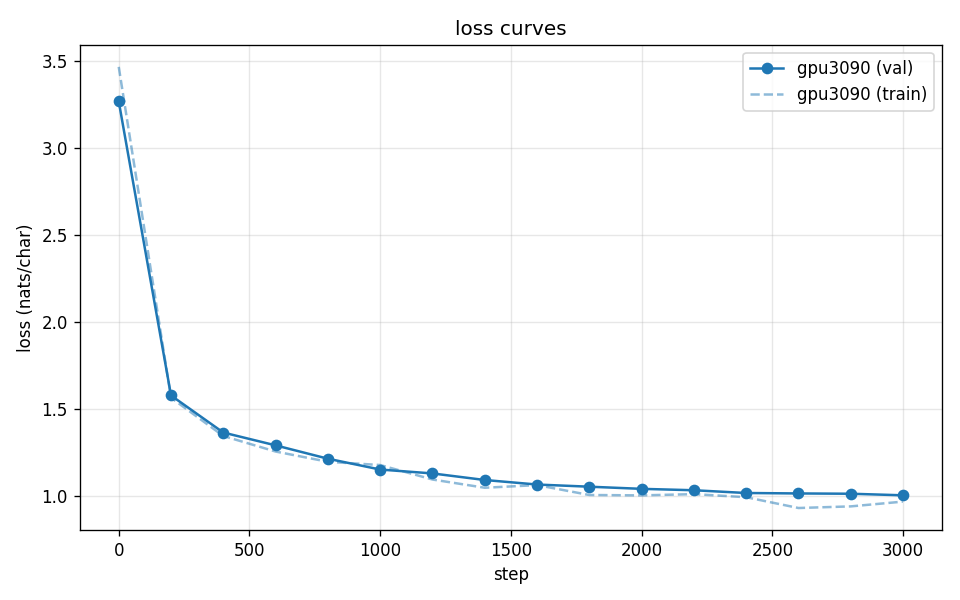
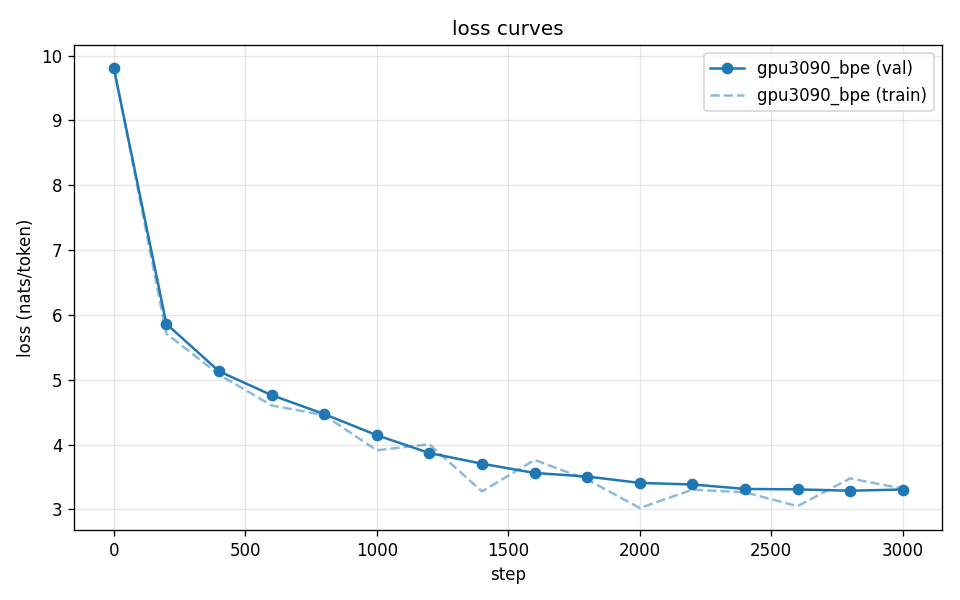
Step 2 finalize: BPE baseline results + tokenizer-aware metrics
BPE multi-domain baseline (gpu3090_bpe, 97.2M, vocab 16k) retrained:
val 3.3070 nats/token = 1.268 bits/char. Establishes the BPE-regime reference
that Steps 3-6 compare against.

Fix char-centric metric mislabel (loss is nats/TOKEN under BPE, not nats/char):
- data.py   expose chars_per_token (CharDataset=1.0; BPEDataset=sampling-weighted
            mean over domains) so bits/char is recoverable
- train.py  report nats/token + bits/token + cross-tokenizer-comparable bits/char
- plot.py   y-axis label follows the log's data_format (nats/token vs nats/char)
- out/gpu3090_bpe/log*.json  derived metrics corrected (raw losses unchanged)

diff --git a/plot.py b/plot.py
@@ -18,8 +18,18 @@ def _load(path: str):
     with open(path) as f:
         blob = json.load(f)
     hist = blob["metrics"]["history"] if "metrics" in blob else blob["history"]
+    fmt = (blob.get("config") or {}).get("data_format", "char")
     steps = [h["step"] for h in hist]
-    return steps, [h["train_loss"] for h in hist], [h["val_loss"] for h in hist]
+    return steps, [h["train_loss"] for h in hist], [h["val_loss"] for h in hist], fmt
+
+
+def _ylabel(fmts: set[str]) -> str:
+    # loss is nats/token (BPE) or nats/char (char-level); label by what's plotted
+    if fmts == {"char"}:
+        return "loss (nats/char)"
+    if fmts == {"bpe"}:
+        return "loss (nats/token)"
+    return "loss (nats per token; nats/char for char-level)"
 
 
 def main():
@@ -38,12 +48,14 @@ def main():
 
     labels = a.labels or [os.path.basename(os.path.dirname(p)) or p for p in a.logs]
     fig, ax = plt.subplots(figsize=(8, 5))
+    fmts = set()
     for path, lab in zip(a.logs, labels):
-        steps, tr, val = _load(path)
+        steps, tr, val, fmt = _load(path)
+        fmts.add(fmt)
         line, = ax.plot(steps, val, marker="o", label=f"{lab} (val)")
         ax.plot(steps, tr, linestyle="--", alpha=0.5, color=line.get_color(),
                 label=f"{lab} (train)")
-    ax.set(xlabel="step", ylabel="loss (nats/char)", title="loss curves")
+    ax.set(xlabel="step", ylabel=_ylabel(fmts), title="loss curves")
     ax.legend(); ax.grid(True, alpha=0.3)
     fig.tight_layout()
     os.makedirs(os.path.dirname(a.out) or ".", exist_ok=True)

diff --git a/train.py b/train.py
@@ -123,14 +123,21 @@ def train_once(cfg: RunConfig, log: bool = True, verbose: bool = True) -> dict:
                 print(f"  step {step:5d} | train {loss.item():.4f} | val {val:.4f} | lr {lr:.2e}")
 
     final_val = history[-1]["val_loss"]
+    # final_val is nats/TOKEN (== nats/char only for char-level). Report the raw
+    # bits/token AND a cross-tokenizer-comparable bits/char (divide by chars/token;
+    # 1.0 for char-level). Avoids the char-centric "bpc" mislabel under BPE.
+    cpt = getattr(dataset, "chars_per_token", 1.0)
+    bits_per_token = final_val / math.log(2)
     metrics = {
         "name": cfg.name,
         "init_seed": cfg.init_seed,
         "data_seed": cfg.data_seed,
         "params_M": raw_model.num_params() / 1e6,
-        "final_val_loss": final_val,
+        "final_val_loss": final_val,                  # nats/token
         "best_val_loss": best_val,
-        "final_val_bpc": final_val / math.log(2),     # bits per char
+        "chars_per_token": cpt,
+        "final_val_bits_per_token": bits_per_token,
+        "final_val_bpc": bits_per_token / cpt,        # bits/char (cross-tokenizer comparable)
         "wall_clock_s": time.time() - t0,
         "history": history,
     }
@@ -180,9 +187,10 @@ def main():
     if a.no_compile: cfg.train.compile = False
     if a.device is not None: cfg.device = a.device
     m = train_once(cfg)
-    print(f"\nfinal val loss {m['final_val_loss']:.4f} "
-          f"({m['final_val_bpc']:.4f} bpc) | best {m['best_val_loss']:.4f} "
-          f"| {m['wall_clock_s']:.1f}s")
+    print(f"\nfinal val {m['final_val_loss']:.4f} nats/tok "
+          f"| {m['final_val_bits_per_token']:.4f} bits/tok "
+          f"| {m['final_val_bpc']:.4f} bits/char (cpt={m['chars_per_token']:.2f}) "
+          f"| best {m['best_val_loss']:.4f} | {m['wall_clock_s']:.1f}s")
 
 
 if __name__ == "__main__":

diff --git a/data.py b/data.py
@@ -26,6 +26,7 @@ class CharDataset:
         self.vocab_size = len(chars)
         self.block_size = block_size
         self.device = device
+        self.chars_per_token = 1.0          # char-level: 1 token == 1 char (so bpc == bits/token)
 
         data = torch.tensor([self.stoi[c] for c in text], dtype=torch.long)
         n = int(split_frac * len(data))
@@ -99,6 +100,14 @@ class BPEDataset:
         else:
             w = np.asarray([domain_weights.get(d, 0.0) for d in self.domains], dtype=np.float64)
         self.domain_probs = torch.tensor(w / w.sum(), dtype=torch.float)
+
+        # sampling-weighted chars/token: each sampled token spans ch_per_tok_d chars,
+        # and domain d is drawn with prob domain_probs[d], so the expected chars per
+        # sampled token is sum_d prob_d * ch_per_tok_d. Lets train.py report a
+        # cross-tokenizer-comparable bits-per-char alongside the raw nats/token loss.
+        cpt = torch.tensor([man["domains"][d]["chars_per_token"] for d in self.domains],
+                           dtype=torch.float)
+        self.chars_per_token = float((self.domain_probs * cpt).sum())
 
     def get_batch(self, split: str, batch_size: int, generator: torch.Generator,
                   domain: str | None = None):